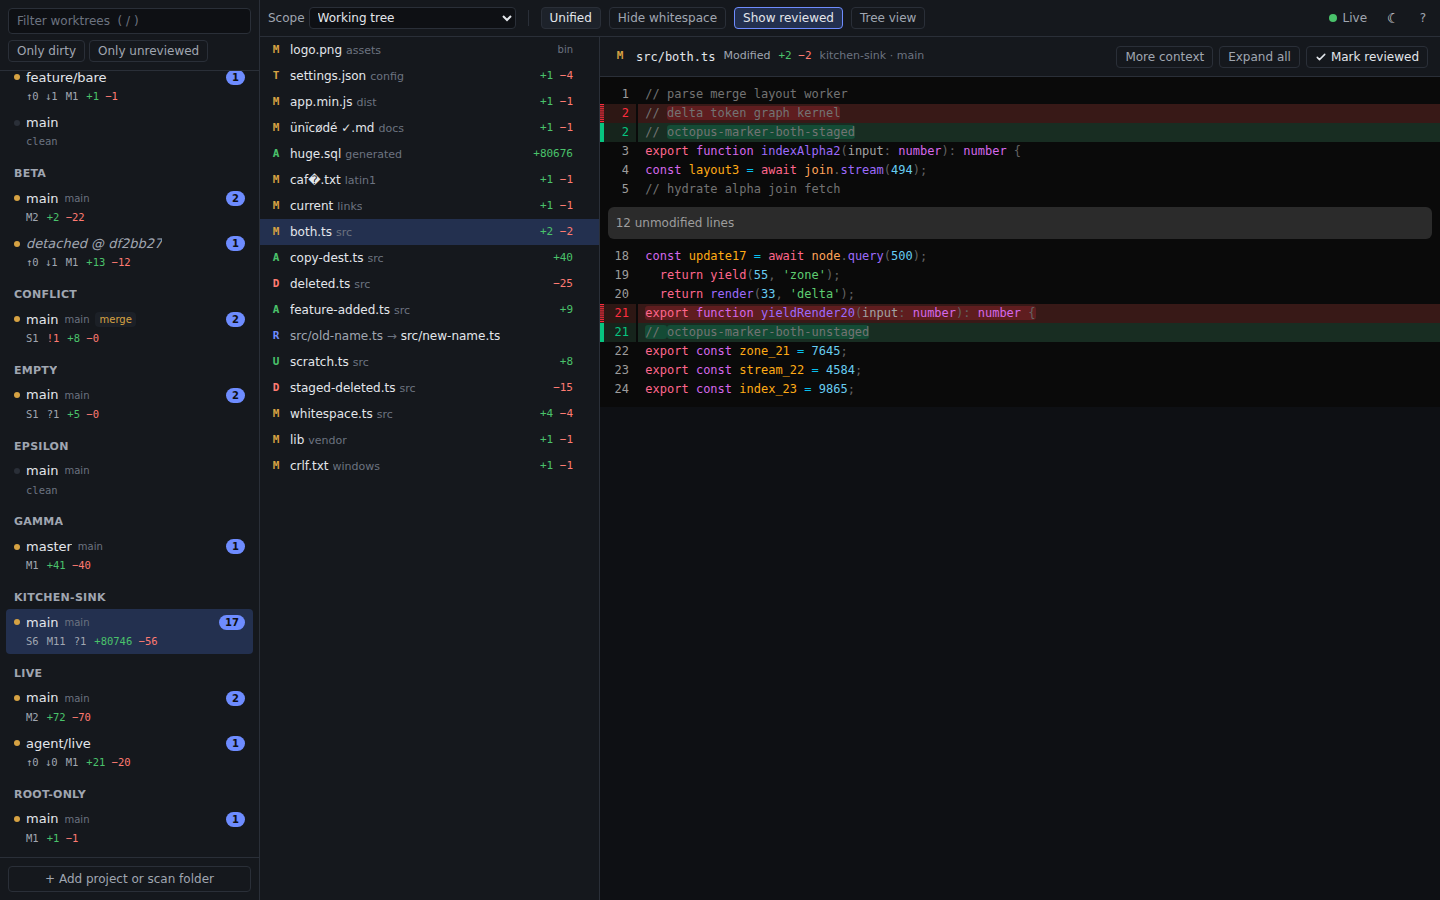
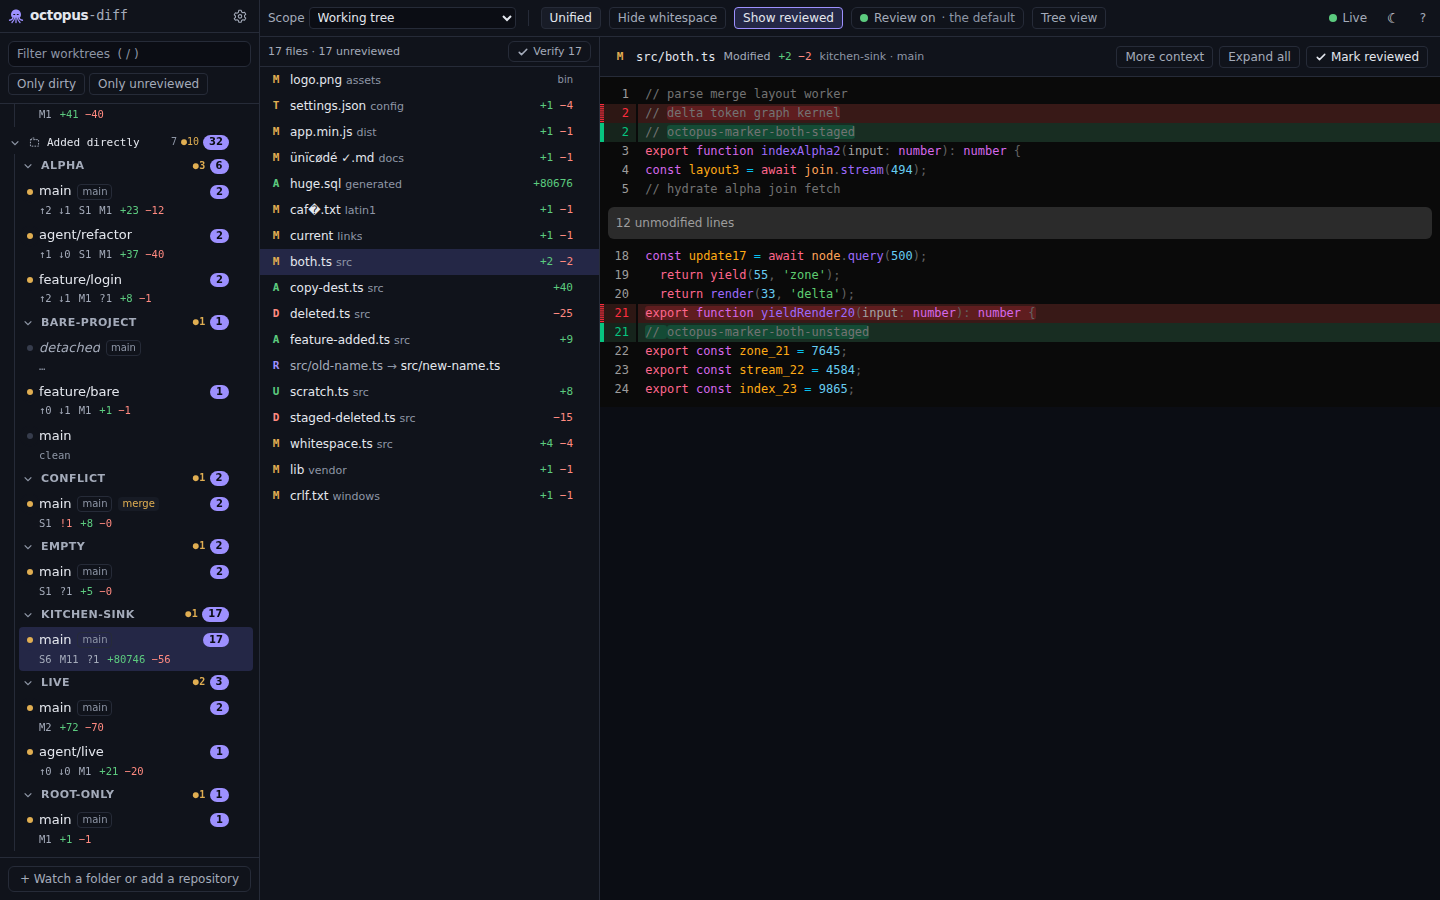
docs: UX round 1 integration report, e2e decisions, README and screenshots for the new UI

diff --git a/docs/reports/ux-round-1.md b/docs/reports/ux-round-1.md
@@ -1,0 +1,53 @@
+# UX round 1 — integration report (lead)
+
+2026-11-08. Branch `lead/ux-foundation`. Brief and ownership: `docs/COORDINATION.md`; decisions: `docs/DECISIONS.md`
+("UX round 1" #1–#22); stream reports: `ux-daemon.md`, `ux-web.md`, `ux-e2e.md`.
+
+## What shipped
+
+| Area | Result | Where |
+|---|---|---|
+| Identity | Octopus mark (round mantle, five unequal arms, slit eyes), ink-violet brand hue, wordmark, type/spacing/density tokens; favicons, apple-touch icon, 192/512 + maskable icons, `site.webmanifest`, `theme-color` metas, `(N) octopus-diff` title count, favicon dot | `docs/design/IDENTITY.md`, `apps/web/public/`, `docs/design/assets/` |
+| Themes (prepared) | Themes are data compiled at build time; registry; `{mode, light, dark}` prefs with v1 migration; no flash (external `theme-init.js`); AA contrast unit test over every theme; Octopus Dark / Light / Contrast | `docs/design/THEMING.md`, `apps/web/src/theme/` |
+| Settings | Six sections (General, Review, Appearance, Folders, Keyboard, About); daemon-shared review settings vs per-device prefs, labelled as such | `apps/web`, `apps/daemon/src/settings*.ts` |
+| Mark all as verified | Worktree / project / folder / all, honours UI filters, undo (toast and Ctrl/Cmd+Z), stale-state guard, one `review.bulk` event | contracts `settings.ts`, `apps/daemon/src/{bulk-review,review-controls}.ts` |
+| Review policy | worktree > branch > project > folder > default (one shared resolver); ON by default for anything new; disabled worktrees stay visible but leave `n`, badges, `onlyUnreviewed`, bulk | contracts `resolveReviewPolicy` |
+| Shell / folder tier | Inbox > Folders > Projects > Worktrees, source chips, activity pulse, view registry with Overview, command palette, first-run states | `apps/web`, `docs/design/FOLDERS.md` (read-only folder views are design only) |
+| Review findings handled | F2, F9, F10, SEC-05 (web) | `docs/reports/ux-web.md` |
+
+## Verification (final tree, `lead/ux-foundation` after merging `main` at `f6478dc`)
+
+Node 26.13.0, git 2.53.0, WSL2. All from real command output on the merged tree:
+
+| Command | Result |
+|---|---|
+| `pnpm check` | exit 0. lint `Checked 306 files … No fixes applied`; typecheck + build every package; tests: contracts 71, git-core 126, web 95, daemon 147, cli 139, fixtures 48, e2e (vitest) 5 |
+| `pnpm test:e2e` (specs 01–13) | **68 passed (2.3 m)**; `read-only proof: 12 control repos, 3325 lock polls, 0 violation(s)` |
+| Bulk review latency (30 repos x 3 worktrees, 360 changed files, in-suite) | `all` cold 950 ms, warm 3 ms, undo 3 ms (target < 2 s); 18,090 files: cold 1486 ms (equal to the inbox's own cold aggregation) |
+| `GET /api/projects`, `GET /api/inbox` before/after the daemon change | no measurable change (2.4 -> 2.6 ms; 4.0 -> 4.2 ms warm) |
+| UI perf gate (ux-e2e, two bench runs vs `main` baseline) | cold first paint 1018 -> ~950 ms; idle CPU 0.38 -> 0.42 %; refresh write->UI p50 296 -> ~29 ms; **warm reload 67 -> ~178 ms (flagged)**; initial JS ~145 KB gz (125 before) |
+
+## Seams found by integration (all fixed, each with a regression test)
+
+1. **Inbox patching dropped the new `review` field** (`main`'s perf code rebuilt entries by hand): a review-disabled worktree
+   would have regained review controls after the first live update. Fixed in `api/cache.ts`; test with a worktree-level disable.
+2. **Escape did not close overlays** once the focused control was disabled or removed (four dialogs). Shared `useEscapeToClose`.
+3. **zod's JIT probe violated the CSP on every page load.** zod runs jitless, pinned into one chunk.
+4. **Migrated v1 prefs were never persisted as v2.**
+5. Merge conflicts with `main`: `DECISIONS.md` (both appended), `api/cache.ts` (perf inbox patching vs `review.bulk`/`settings.changed`
+   handling), `apps/daemon/src/app.ts` imports (auth v2 vs the new routes), `apps/daemon/test/auth.test.ts` (auth v2 removed the
+   "sign-in hint" test; the new routes' guard test kept), `apps/web/src/main.tsx` (token bootstrap + themes import). No semantic
+   conflicts in auth v2: the new routes sit behind the same middleware and the e2e auth specs pass with them.
+
+## Open items
+
+- **Warm reload +110 ms** (decision #22): attributed, not fixed.
+- **Contracts follow-ups** (additive, not done): jitless zod inside `packages/contracts`; test ids for the sidebar context menu,
+  bulk confirm dialog, add-project dialog and Overview buttons.
+- **Not covered by UI tests:** the Overview's policy buttons, the `⋯` keyboard path to context menus, the palette's "mark all"
+  and theme items, `reviewOffDisplay` dim/hide/show, auto-advance, confirm-before-bulk turned off.
+- **Not built:** keyboard rebinding (Settings → Keyboard is read-only); Files/History views for a whole folder (designed in
+  `docs/design/FOLDERS.md`, deliberately no UI and no daemon endpoints); undo tokens are memory-only (lost on restart).
+- **Minor:** the activity pulse depends on the daemon bumping `summary.updatedAt` on every state change; the e2e log shows a few
+  `git-core has been disposed` lines at fixture teardown (requests arriving while the fixture closes the daemon; all tests pass).
+- README and screenshots refreshed from the real UI (`pnpm --filter @octopus-diff/e2e screenshots`).

diff --git a/README.md b/README.md
@@ -15,7 +15,9 @@ questions. octopus-diff answers them in one browser window:
 
 It is **agent-agnostic**: it only speaks git, so it works with any tool that edits files or creates
 worktrees. Worktrees are discovered automatically, and edits show up live without a reload. Files you
-mark as reviewed stay reviewed until their patch changes, then come back as unreviewed.
+mark as reviewed stay reviewed until their patch changes, then come back as unreviewed. You steer the
+review loop: verify a whole worktree, project or folder in one click (with undo), or switch review
+off where you do not want it.
 
 ![octopus-diff: projects and worktrees on the left, changed files in the middle, a split diff on the right](docs/screenshots/diff-split-dark.png)
 
@@ -103,6 +105,30 @@ all of the repository's worktrees are discovered automatically (T3 Code's `~/.t3
 Code's `.claude/worktrees`, Conductor, Codex and hand-made worktrees alike). A *scan root* is a
 directory that is searched for repositories down to a depth (default 3, max 8), skipping
 `node_modules` and similar.
+
+### Review controls, settings and themes
+
+- **Mark all as verified.** The button above the file list marks every file you can see (respecting the
+  sidebar filters); in the Inbox it marks everything. `Shift+R` does the same from the keyboard, and the
+  context menu of a worktree, project or folder (and the folder Overview) can mark that whole level, or
+  clear it again ("Mark all as unreviewed"). A toast offers **Undo** (also `Ctrl/Cmd+Z`) for ten minutes.
+  A worktree that changed after you last looked is skipped and reported, so you never verify a diff you
+  did not see.
+- **Review on or off, per level.** The chip in the toolbar shows whether review is on for the selected
+  worktree and where that comes from. You can turn it on or off for the worktree, its branch, its
+  project, or the folder (scan root) it was discovered in; the most specific setting wins (worktree,
+  then branch, project, folder, then the default). **Review is on by default**, which is what every new
+  repository, worktree and branch gets; switch the default off in Settings to make review opt-in. A
+  worktree with review off stays visible and diffable, but it has no unreviewed badges, `n` skips it and
+  bulk actions leave it alone.
+- **Settings** (`,` or the gear in the sidebar): General, Review (the default and every override),
+  Appearance, Folders (scan roots and projects), Keyboard and About. Review settings are stored by the
+  daemon and shared by every browser that opens it; appearance and layout preferences are stored in the
+  browser, per device. The **command palette** (`Ctrl/Cmd+K`) jumps to any worktree, project or folder
+  and runs any command.
+- **Themes.** Octopus Dark, Octopus Light and a high-contrast theme; "System" follows the OS. Themes
+  are plain data files, so adding one is a one-file change: see [`docs/design/THEMING.md`](docs/design/THEMING.md).
+  The identity and palette are described in [`docs/design/IDENTITY.md`](docs/design/IDENTITY.md).
 
 ### Commands and options
 
@@ -244,6 +270,10 @@ printf 'fs.inotify.max_user_watches=524288\nfs.inotify.max_user_instances=512\n'
   binary files are shown as binary.
 - One machine: the browser and the repositories must be on the machine running the daemon (or reach
   it over a trusted network with `--allow-non-loopback`).
+- Folders are watched for repositories, not browsed: viewing a whole folder's files (read-only) is
+  designed in [`docs/design/FOLDERS.md`](docs/design/FOLDERS.md) but not built.
+- Undo for "Mark all as verified" is kept in the daemon's memory for ten minutes and is lost when it
+  restarts.
 - Not published to npm yet; no desktop app yet.
 
 ## Development

diff --git a/docs/DECISIONS.md b/docs/DECISIONS.md
@@ -797,3 +797,25 @@ tests; full e2e 48 passed). Full text: `docs/reports/ux-web.md`, design docs in 
     would have turned review back on for a review-disabled worktree after any live update (an absent field means "enabled").
     Fixed in `api/cache.ts` (carry `review` over from the refetched projects list) with a regression test. Lesson recorded in
     COORDINATION: code that rebuilds API objects by hand must be reviewed whenever a contract gains a field.
+
+### UX round 1 — UI-level e2e (`ux/e2e`, folded in by the lead)
+
+All 2026-11-08 · ux-e2e (continued daemon session), accepted by the lead after merging with `main` (auth v2, git-core and
+watcher fixes): `pnpm check` exit 0, `pnpm test:e2e` 68 passed, read-only proof 0 violations. Full text: `docs/reports/ux-e2e.md`.
+
+19. **Overlays close on Escape through one shared `useEscapeToClose` hook** (document-level capture listener while open).
+    Found by the first UI run against the real daemon: Escape did nothing in Settings, the policy menu, the bulk confirm and
+    the add-project dialog once the focused control was disabled or removed.
+20. **zod runs jitless in the browser** (`z.config({ jitless: true })`, configured before the contracts evaluate, with zod
+    and its config pinned into one Rollup chunk) because zod's JIT probe tripped the CSP (`script-src 'self'`, no `eval`) on
+    every page load. Interim mechanism; the clean home is the contracts package (follow-up below).
+21. **Migrated v1 prefs are written back as v2 on load** (they were only migrated in memory).
+22. **Warm-reload regression accepted for this round and tracked.** Warm reload first paint 67 ms -> ~178 ms (two runs);
+    cold first paint (1018 -> ~950 ms), idle CPU, refresh write->UI (296 -> ~30 ms, from the perf review) and daemon RSS are
+    flat or better; initial JS ~145 KB gz (125 KB before). Attributed with a CPU profile to forced synchronous layout in
+    `FileList.tsx`'s viewport `useLayoutEffect` on the larger sidebar DOM (folder tier, chips, badges) plus React commit
+    work. Candidate fixes: measure the list viewport from the ResizeObserver callback, memoize sidebar rows, render row
+    details lazily. Not applied: perf-sensitive virtualized-list code is not patched without its own measurement pass.
+    Follow-ups for the contracts: move the jitless call into `packages/contracts` (removes the web's direct zod dependency
+    and the chunk pin); add test ids for the sidebar context menu, the bulk confirm dialog, the add-project dialog and the
+    Overview bulk/policy buttons.

diff --git a/docs/COORDINATION.md b/docs/COORDINATION.md
@@ -1,5 +1,9 @@
 # Coordination — UX round 1 (identity, theming-ready, review controls)
 
+> **Status: integrated (2026-11-08).** All streams merged on `lead/ux-foundation` together with `main` (auth v2,
+> git-core and watcher fixes); `pnpm check` green, `pnpm test:e2e` 68 passed. Results, seams found and open items:
+> `docs/reports/ux-round-1.md`. The rest of this file is kept as the record of how the round was split.
+
 > Written by the lead on 2026-11-08, branch `lead/ux-foundation`. Two delegated sessions (both Claude Fable 5.1,
 > effort high) work **in parallel** from this commit, each in its own git worktree. This file is their shared
 > brief and the lead's merge plan. Anything not covered here: follow `AGENTS.md` and `docs/PLAN.md`.

diff --git a/docs/PLAN.md b/docs/PLAN.md
@@ -332,7 +332,7 @@ Then run, as separate fresh sessions, in parallel: **(a)** adversarial code revi
 execution, symlink escapes), **(c)** performance pass against the bench. Triage findings, fix, re-run
 acceptance. Write `docs/reports/mvp.md` (what works, what does not, next steps).
 
-### Phase 2b — UX round 1 (2026-11-08, user-requested)
+### Phase 2b — UX round 1 (2026-11-08, user-requested) — done, see `docs/reports/ux-round-1.md`
 
 Identity and design system, theming-ready architecture, a Folder tier in the shell, "Mark all as verified" with undo, review
 policy (per worktree / branch / project / folder, ON by default for anything new) and a real Settings screen. Two parallel
